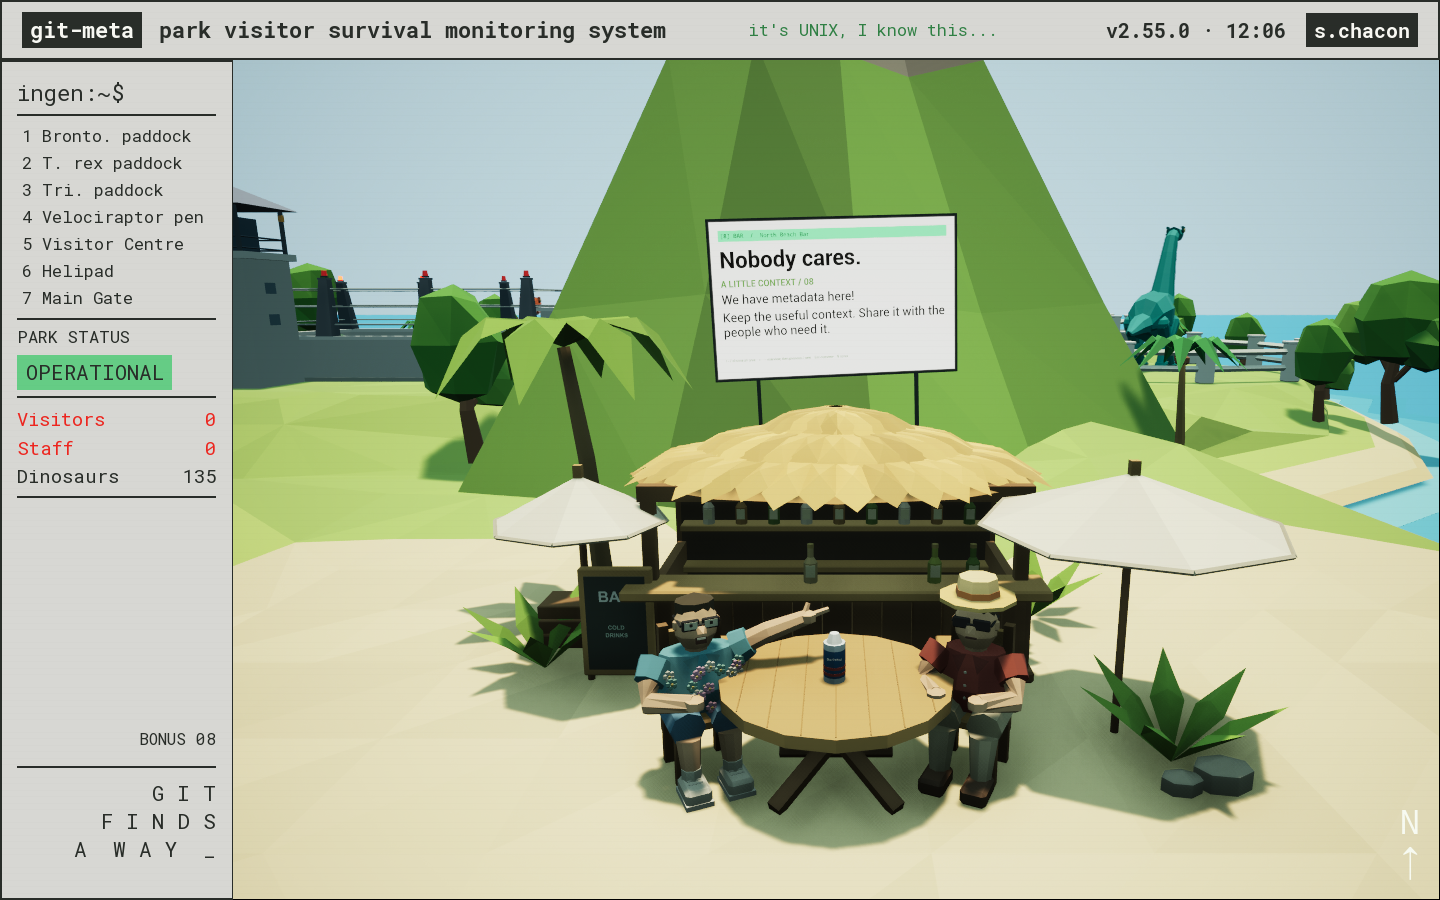
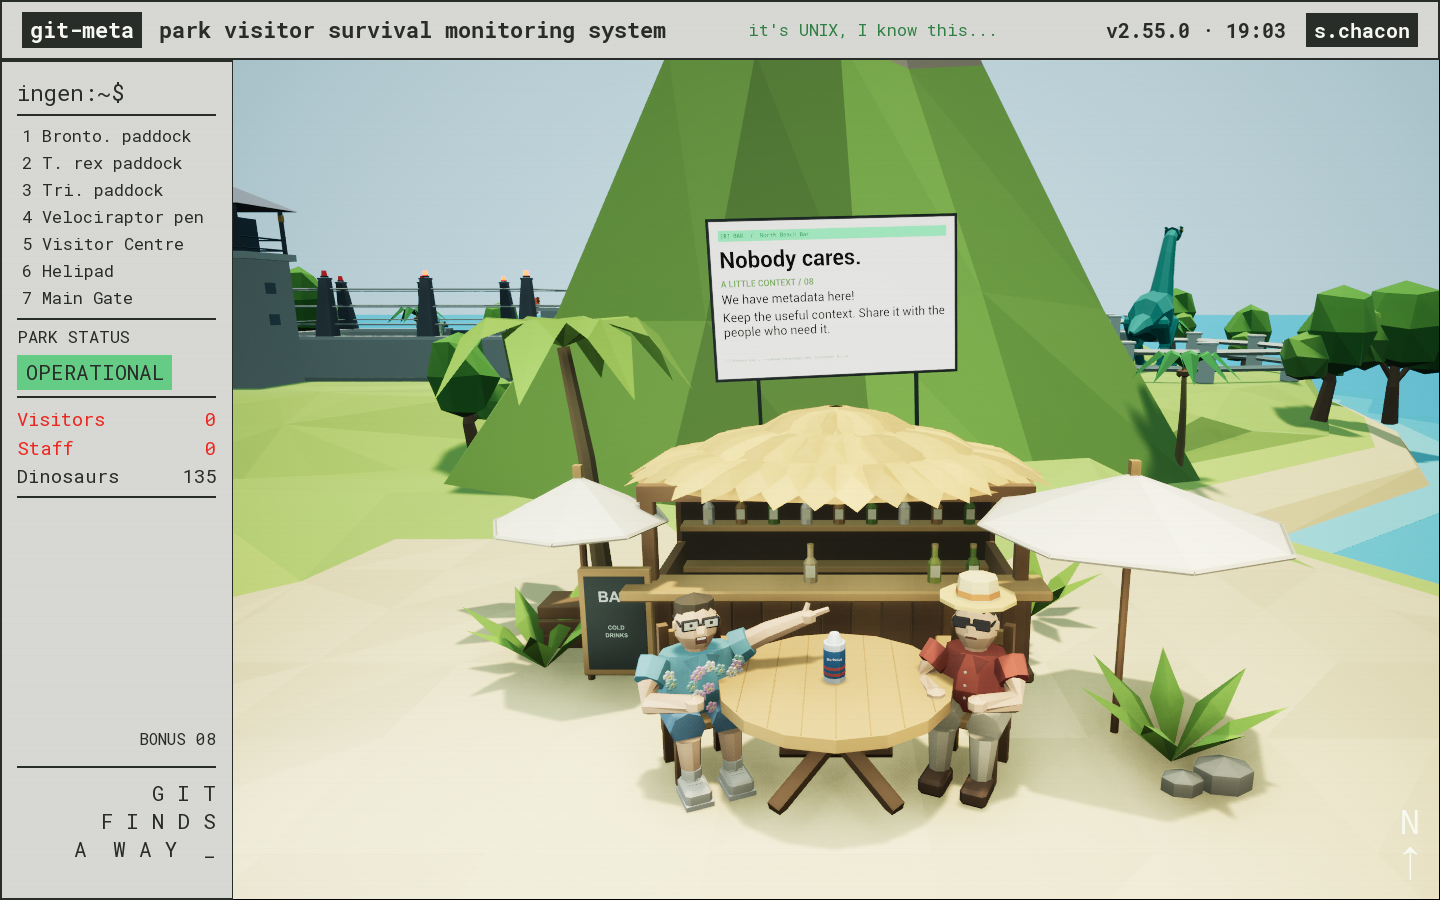
Light the beach bar faces and counter with soft fill

diff --git a/unreal/Source/SlideEngine/IslandScene.cpp b/unreal/Source/SlideEngine/IslandScene.cpp
@@ -3,8 +3,10 @@
 #include "Dom/JsonObject.h"
 #include "Engine/StaticMeshActor.h"
 #include "Engine/StaticMesh.h"
+#include "Engine/RectLight.h"
 #include "Engine/World.h"
 #include "Components/StaticMeshComponent.h"
+#include "Components/RectLightComponent.h"
 #include "Materials/MaterialInstanceDynamic.h"
 #include "Misc/FileHelper.h"
 #include "Misc/Paths.h"
@@ -12,6 +14,22 @@
 #include "Serialization/JsonSerializer.h"
 
 namespace {
+void LightBeachBar(UWorld* World,const FTransform& Bar) {
+ // Broad sand/sky bounce lifts faces and the counter beneath the thatch.
+ // Place the lights in model space so they follow the north-facing bar.
+ auto Fill=[&](FVector Offset,float Intensity,FLinearColor Color) {
+  const FVector Position=Bar.TransformPosition(Offset);
+  const FVector Target=Bar.TransformPosition(FVector(0,-200,300));
+  auto* Light=World->SpawnActor<ARectLight>(Position,(Target-Position).Rotation());
+  auto* Component=Light->RectLightComponent.Get();
+  Component->SetMobility(EComponentMobility::Movable);
+  Component->SetIntensityUnits(ELightUnits::Candelas);Component->SetIntensity(Intensity);
+  Component->SetLightColor(Color);Component->SetSourceWidth(2200);Component->SetSourceHeight(1500);
+  Component->SetAttenuationRadius(5000);Component->SetCastShadows(false);
+ };
+ Fill(FVector(-450,-1050,750),1400,FLinearColor(1,.95,.85));
+ Fill(FVector(700,-650,450),700,FLinearColor(.8,.91,1));
+}
 struct FSplash { TWeakObjectPtr<AStaticMeshActor> Actor; FVector Origin; float Scale,Phase; };
 TArray<FSplash> Splashes;
 struct FWander {
@@ -183,6 +201,7 @@ IslandScene::FStats IslandScene::Build(UWorld* World,const TArray<TSharedPtr<FJs
   auto P=Value->AsObject();const FString Name=P->GetStringField(TEXT("asset"));
   if(Name==TEXT("SM_DungPile") || Name==TEXT("SM_Enclosure") || Name==TEXT("SM_RaptorPen") || Name==TEXT("SM_RaptorBeacon") || Species.Contains(Name)) continue;
   auto* Placed=Asset(World,Name,Position(P->GetArrayField(TEXT("position")))*100,P->GetNumberField(TEXT("yaw")),P->GetNumberField(TEXT("scale")));Count++;
+  if(Name==TEXT("SM_BeachBar"))LightBeachBar(World,Placed->GetActorTransform());
   if(Name==TEXT("SM_GateLeafLeft")||Name==TEXT("SM_GateLeafRight"))RegisterGateLeaf(Placed,Name.EndsWith(TEXT("Left"))?1.f:-1.f);
   if(Name==TEXT("SM_WaterSplash"))Splashes.Add({Placed,Placed->GetActorLocation(),float(P->GetNumberField(TEXT("scale"))),Splashes.Num()*1.7f});
   if(Name.StartsWith(TEXT("SM_Tree")) || Name==TEXT("SM_Palm")) Trees++;

diff --git a/docs/verification.md b/docs/verification.md
@@ -101,3 +101,7 @@ closing on Escape, interrupted number navigation, and free flight.
 The gate interaction passes at 1440×900, and the full presentation check passes
 at 1024×768. Captures show the [opening doors](screenshots/gate-opening.png)
 and [slide through the open gateway](screenshots/gate-open.png).
+
+The north-facing beach bar has broad warm and cool fill lights that lift faces
+and the shaded counter without changing the island sun. Presentation and free-flight
+captures were visually checked at 1440×900; the native navigation check passes.
